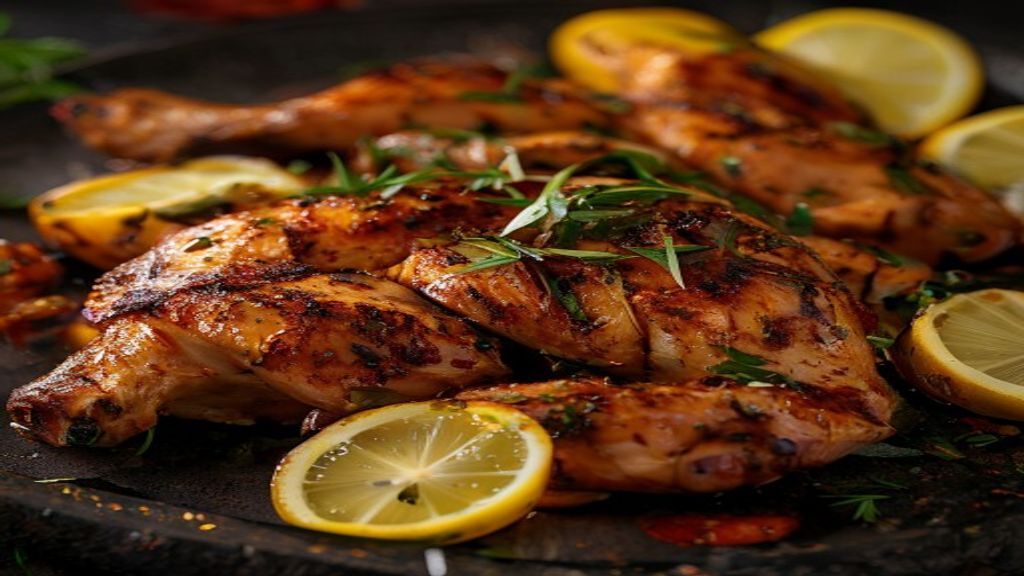
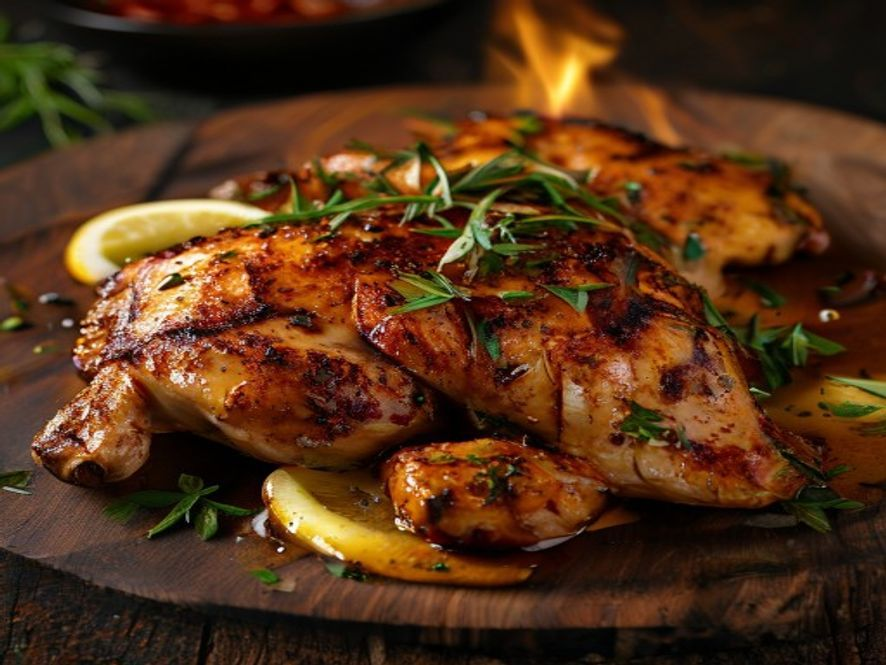
Fix: replace roti cake image, add 2 real Chicket photos, no overlap between featured and gallery

diff --git a/js/config.js b/js/config.js
@@ -79,9 +79,9 @@ const CONFIG = {
   ],
 
   featured: [
-    { name: 'Grill Feast (2 Person)', description: 'Half flame-grilled chicken with one Signature Roti, hummus, and golden crunch fries. Our most-loved meal!', price: 'LKR 1,980', badge: 'Most Popular', image: 'images/gallery-4.jpg', alt: 'Grill Feast half chicken with sides' },
+    { name: 'Grill Feast (2 Person)', description: 'Half flame-grilled chicken with one Signature Roti, hummus, and golden crunch fries. Our most-loved meal!', price: 'LKR 1,980', badge: 'Most Popular', image: 'images/gallery-7.jpg', alt: 'Grill Feast half chicken with sides' },
     { name: 'Flame Platter (4 Person)', description: 'Full flame-grilled chicken with two Signature Rotis, hummus, and golden crunch fries. Perfect for sharing!', price: 'LKR 3,970', badge: 'Family Deal', image: 'images/gallery-2.jpg', alt: 'Flame Platter full chicken feast' },
-    { name: 'Signature Roti', description: 'Our homemade Signature Roti — soft, warm, and the perfect companion to any meal. 87% of customers love it!', price: 'LKR 250', badge: 'Customer Favorite', image: 'images/gallery-5.jpg', alt: 'Signature Roti' },
+    { name: 'Signature Roti', description: 'Our homemade Signature Roti — soft, warm, and the perfect companion to any meal. 87% of customers love it!', price: 'LKR 250', badge: 'Customer Favorite', image: 'images/gallery-3.jpg', alt: 'Signature Roti' },
   ],
 
   testimonials: [
@@ -92,6 +92,8 @@ const CONFIG = {
   ],
 
   gallery: [
+    { src: 'images/gallery-8.jpg', alt: 'Grill Chicken Sambawam at Chicket' },
+    { src: 'images/gallery-1.jpg', alt: 'Grilled chicken feast with rice and sides' },
     { src: 'images/gallery-4.jpg', alt: 'Crispy chicken nuggets with sauce' },
     { src: 'images/gallery-5.jpg', alt: 'Chocolate fudge dessert' },
     { src: 'images/gallery-6.jpg', alt: 'Refreshing lemon juice and faluda' },